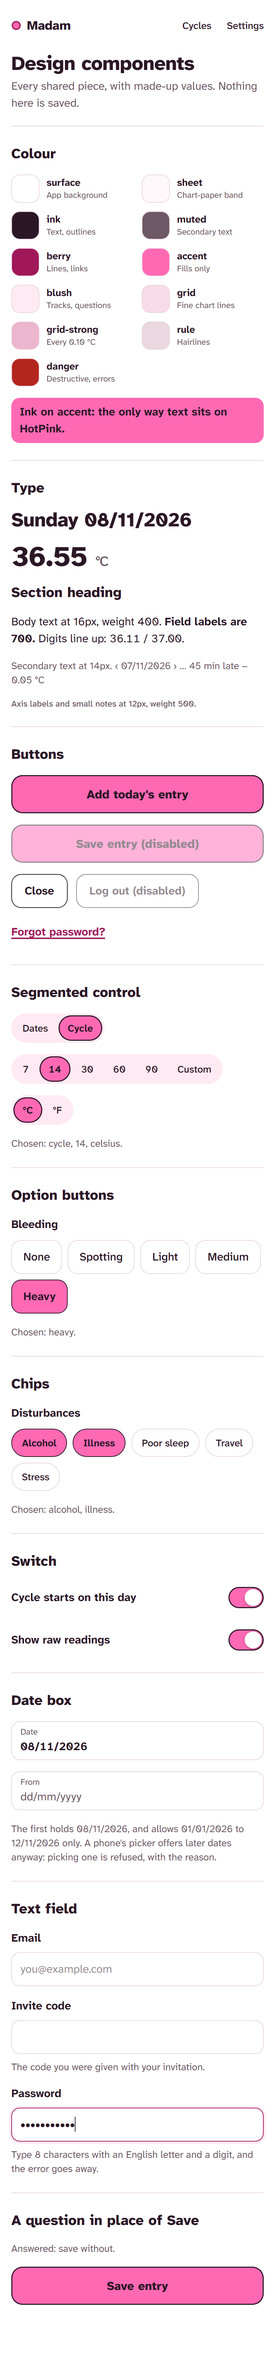
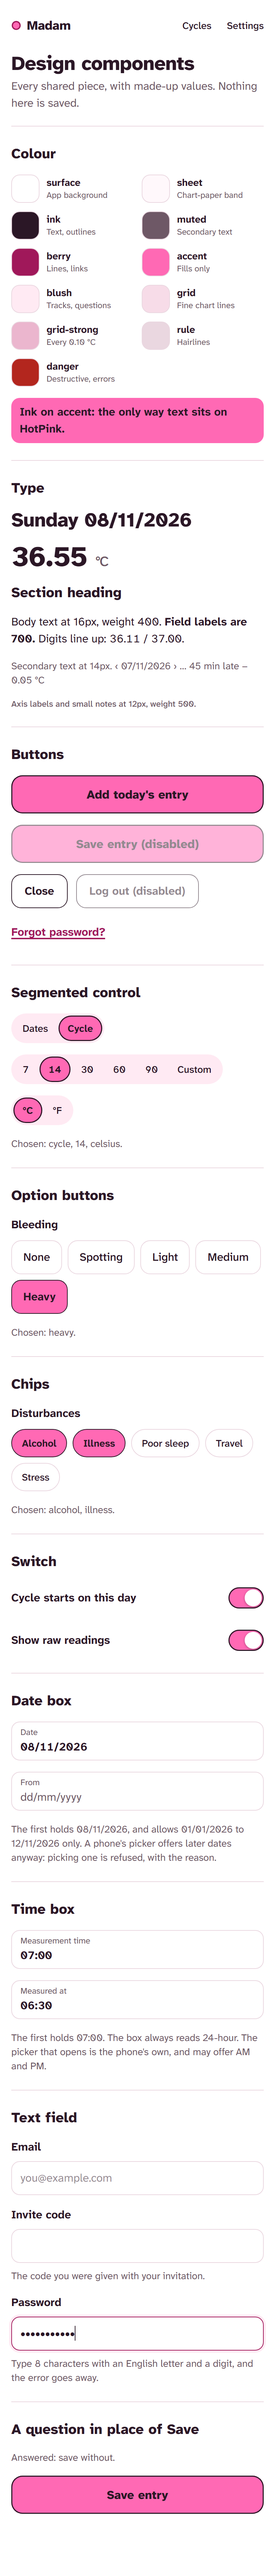
Add the time box: 24-hour text over the native time picker (#48)
The date box's twin (docs/design-brief.md §5), for the fixed measurement
time in onboarding and a reading's time later. A phone set to a 12-hour
clock draws "7:05 AM" in a native time input, and times here are 24-hour,
so the box shows its own "07:05" with the real input invisible on top.
Its value is always HH:MM; lib/time.ts drops the seconds some browsers add
and checks the same spelling the server will (fam-rules.md §12.10).

Shown on /design with a filled and an empty box, and covered by six new
browser checks. Nothing in the app uses it yet.

diff --git a/frontend/src/components/TimeBox.tsx b/frontend/src/components/TimeBox.tsx
@@ -1,0 +1,67 @@
+import { useId } from "react";
+import { timeFromInput } from "../lib/time.ts";
+
+// Every time input (docs/design-brief.md §5 and §9): the date box's twin.
+// A phone set to a 12-hour clock draws "7:05 AM" in a native time input,
+// and times here are 24-hour. So the box shows its own "07:05", with the
+// real <input type="time"> stretched over it, invisible. A tap lands on the
+// input and opens the phone's own picker. Whatever that picker looks like,
+// the value it reports is "HH:MM".
+
+type Props = {
+  label: string;
+  // "HH:MM", or "" while no time is chosen.
+  value: string;
+  onChange: (value: string) => void;
+  // What is wrong, shown under the box: "Pick a time."
+  error?: string;
+};
+
+export function TimeBox({ label, value, onChange, error }: Props) {
+  const errorId = useId();
+  return (
+    <div className="grid gap-2">
+      <label className="border-rule bg-surface focus-within:border-berry relative grid min-h-12 cursor-pointer gap-px rounded-xl border-[1.5px] px-3 py-1.5 focus-within:shadow-[0_0_0_3px_var(--color-blush)]">
+        <span className="text-muted text-xs">{label}</span>
+        <span className="font-bold tabular-nums">
+          {value === "" ? (
+            <span className="text-muted font-normal">hh:mm</span>
+          ) : (
+            value
+          )}
+        </span>
+        <input
+          type="time"
+          aria-label={label}
+          value={value}
+          aria-invalid={error ? true : undefined}
+          aria-describedby={error ? errorId : undefined}
+          onChange={(event) => {
+            // null: not a time. onChange isn't called, so value stays as
+            // it was and React puts the input back to it.
+            const picked = timeFromInput(event.target.value);
+            if (picked !== null) {
+              onChange(picked);
+            }
+          }}
+          onClick={(event) => {
+            // On a computer a click on a time input only focuses it, so ask
+            // for the picker. Browsers without showPicker, or that refuse
+            // it here, still let the time be typed.
+            try {
+              event.currentTarget.showPicker();
+            } catch {
+              // Nothing to do: the input works without the picker.
+            }
+          }}
+          className="absolute inset-0 size-full cursor-pointer opacity-0"
+        />
+      </label>
+      {error && (
+        <p id={errorId} role="alert" className="text-danger text-sm font-bold">
+          {error}
+        </p>
+      )}
+    </div>
+  );
+}

diff --git a/frontend/src/pages/DesignPage.tsx b/frontend/src/pages/DesignPage.tsx
@@ -8,6 +8,7 @@ import { Question } from "../components/Question.tsx";
 import { SegmentedControl } from "../components/SegmentedControl.tsx";
 import { Switch } from "../components/Switch.tsx";
 import { TextField } from "../components/TextField.tsx";
+import { TimeBox } from "../components/TimeBox.tsx";
 import { newPasswordProblem } from "../lib/authText.ts";
 import { formatDate, formatDateLong } from "../lib/date.ts";
 
@@ -92,6 +93,8 @@ export default function DesignPage() {
   const [showRaw, setShowRaw] = useState(true);
   const [date, setDate] = useState("2026-11-08");
   const [emptyDate, setEmptyDate] = useState("");
+  const [time, setTime] = useState("07:00");
+  const [emptyTime, setEmptyTime] = useState("");
   const [email, setEmail] = useState("");
   const [password, setPassword] = useState("short");
   const [asking, setAsking] = useState(false);
@@ -238,6 +241,21 @@ export default function DesignPage() {
           The first holds {date === "" ? "no date" : formatDate(date)}, and
           allows 01/01/2026 to 12/11/2026 only. A phone's picker offers later
           dates anyway: picking one is refused, with the reason.
+        </p>
+      </Section>
+
+      <Section title="Time box">
+        <TimeBox label="Measurement time" value={time} onChange={setTime} />
+        <TimeBox
+          label="Measured at"
+          value={emptyTime}
+          onChange={setEmptyTime}
+          error={emptyTime === "" ? "Pick a time." : undefined}
+        />
+        <p className="text-muted text-sm">
+          The first holds {time === "" ? "no time" : time}. The box always reads
+          24-hour. The picker that opens is the phone's own, and may offer AM
+          and PM.
         </p>
       </Section>
 

diff --git a/frontend/src/lib/time.ts b/frontend/src/lib/time.ts
@@ -1,0 +1,35 @@
+// Times of day (docs/design-brief.md §7, docs/fam-rules.md §9.2): always
+// 24-hour and written "HH:MM", on screen and to the API. No seconds, and
+// "24:00" is not a time.
+
+// [0-9], not \d, so the rule can't change with a regex flag: only the ten
+// digits an English keyboard types.
+const TIME_OF_DAY = /^([01][0-9]|2[0-3]):[0-5][0-9]$/;
+
+// isTimeOfDay says whether value is a time exactly as the API reads one.
+// The server checks the same rule (fam.ParseMinutes); the two share their
+// test cases.
+export function isTimeOfDay(value: string): boolean {
+  return TIME_OF_DAY.test(value);
+}
+
+// What a native <input type="time"> reports: "HH:MM", with seconds (and
+// fractions of one) in some browsers.
+const NATIVE_TIME = /^([0-9]{2}:[0-9]{2})(:[0-9]{2}(\.[0-9]+)?)?$/;
+
+// timeFromInput turns a native time input's value into ours.
+//
+//   ""          ""      she cleared it
+//   "07:05"     "07:05"
+//   "07:05:00"  "07:05" seconds dropped: a time here is a minute
+//   else        null    not a time; the caller keeps what it had
+export function timeFromInput(raw: string): string | null {
+  if (raw === "") {
+    return "";
+  }
+  const hoursAndMinutes = NATIVE_TIME.exec(raw)?.[1];
+  if (hoursAndMinutes === undefined || !isTimeOfDay(hoursAndMinutes)) {
+    return null;
+  }
+  return hoursAndMinutes;
+}
